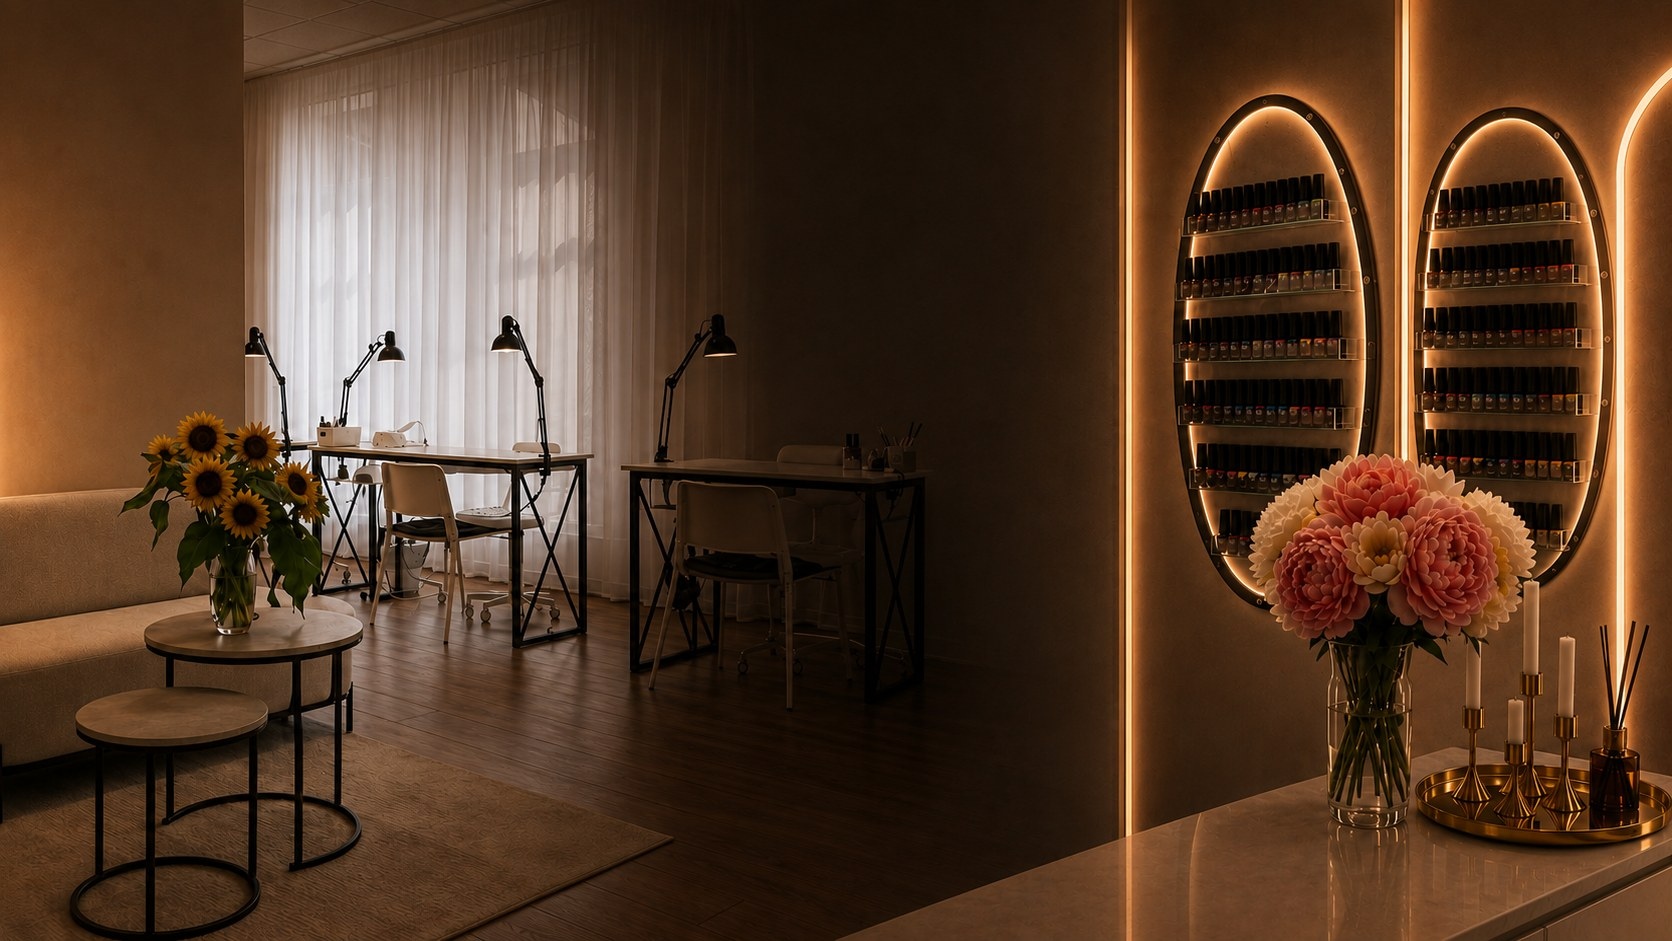
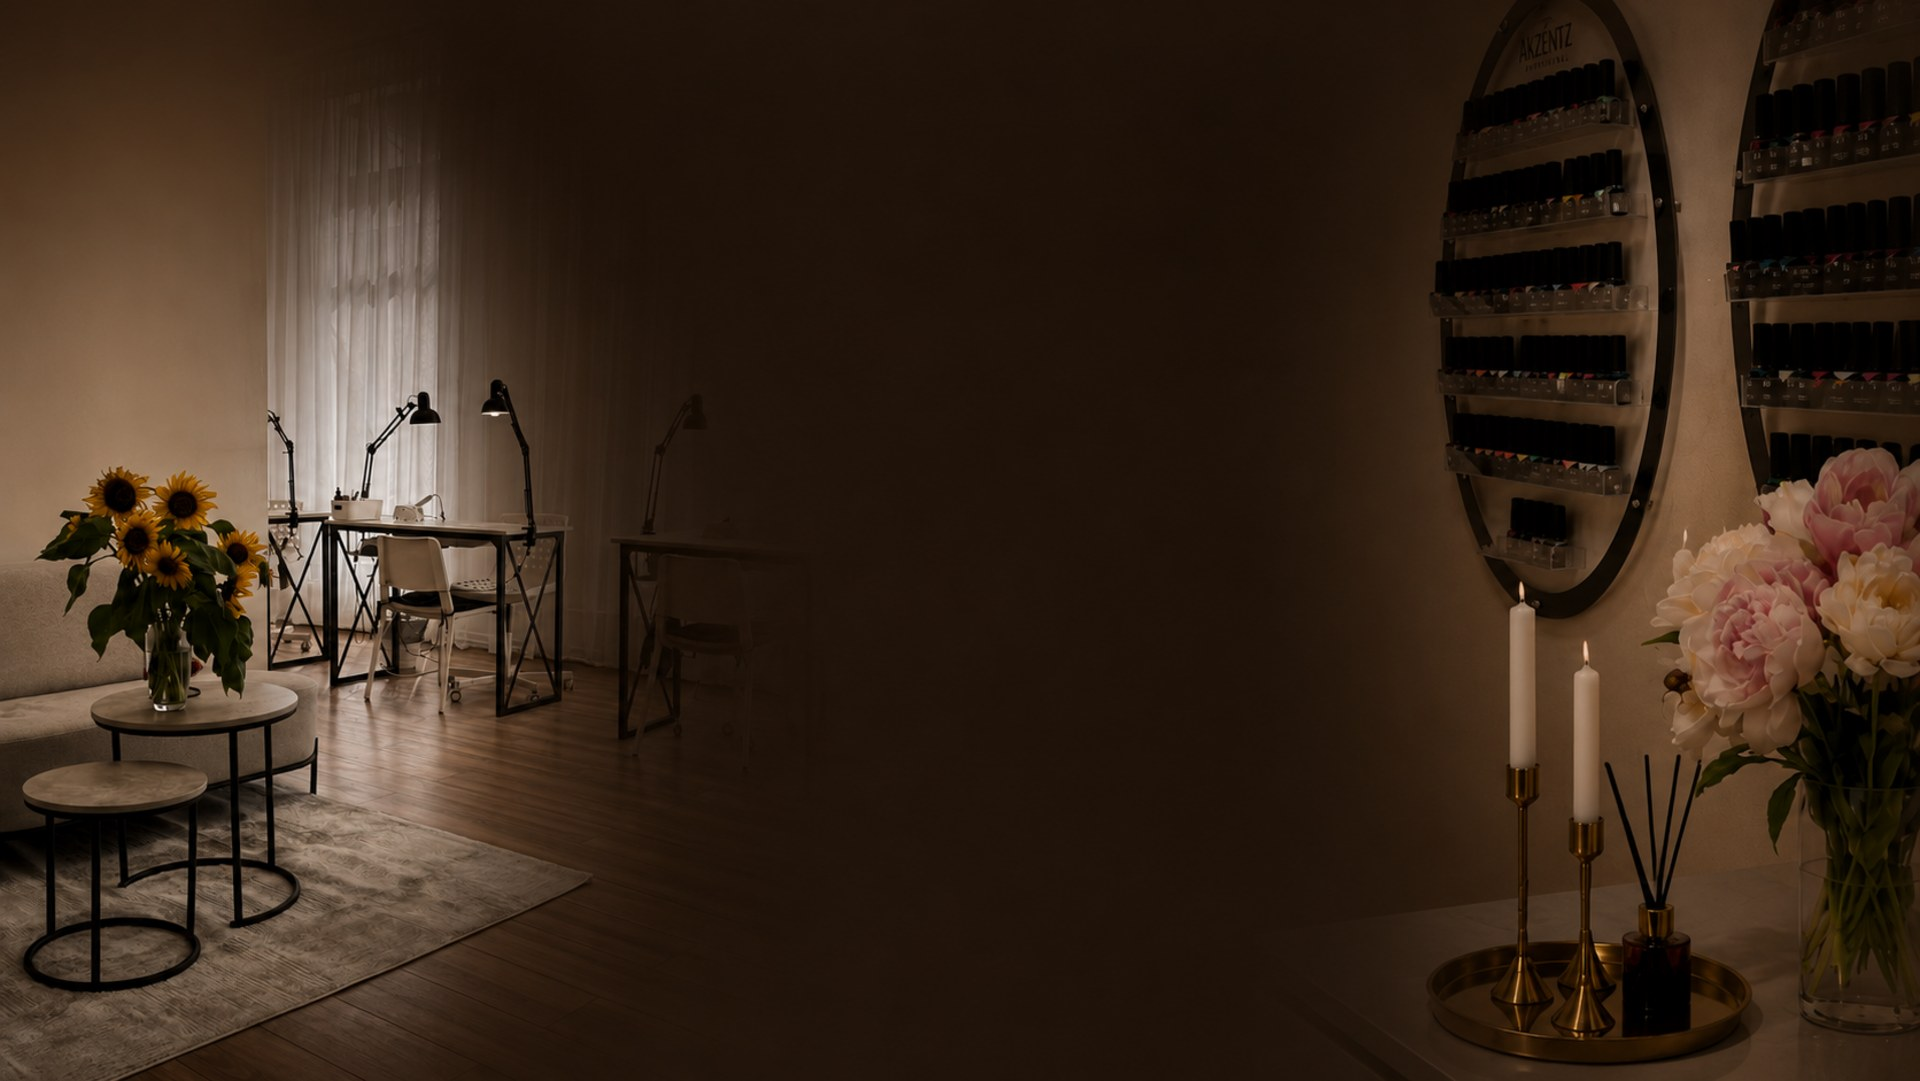
diana: новый фон главной, посадка «О салоне», правки галереи
Главная получила новый фон из макета (perfect-ton-brown-background-v3),
для телефона — вертикальный кадр с зеркалами и цветами и более плотная
подложка под текстом. На «О салоне» направляющие и текст сдвинуты
левее — блок не подходит вплотную к правой фотографии; на телефоне
верхний экран перестроен: фото стало фоном, заголовок помещается в
три строки. Подписи под фотографиями в просмотре убраны, «уголок
отдыха» заменён на новый кадр, блок «Готовы к преображению» со
страницы убран.

diff --git a/site/diana/diana.css b/site/diana/diana.css
@@ -135,7 +135,7 @@ p{margin:0 0 16px;color:rgba(255,255,255,.82);max-width:64ch}
 }
 .hero__bg{
   position:absolute;inset:0;z-index:-2;
-  background:url('assets/hero-bg.jpg') center/cover no-repeat;
+  background:url('assets/hero-bg.jpg?v=3') center/cover no-repeat;
 }
 .hero::before{
   content:'';position:absolute;inset:0;z-index:-1;pointer-events:none;
@@ -206,7 +206,7 @@ p{margin:0 0 16px;color:rgba(255,255,255,.82);max-width:64ch}
   .is-home .hdr--over{position:absolute;background:linear-gradient(180deg,rgba(20,12,10,.72),transparent)}
   .hdr--over .hdr__in{padding:16px var(--pad)}
   .hdr__cta{display:none}
-  .hero__bg{background-image:url('assets/hero-bg-mobile.jpg')}
+  .hero__bg{background-image:url('assets/hero-bg-mobile.jpg?v=3')}
   .hero{height:auto;min-height:92svh;padding:110px 0 230px}
   .usp{grid-template-columns:repeat(2,1fr);gap:22px 0}
   .usp li+li{border-left:0}
@@ -1609,3 +1609,69 @@ body.nav-open .hdr{backdrop-filter:none;-webkit-backdrop-filter:none;background:
 
 /* волна: чуть выше и с пологими краями — у самой кромки экрана нет уголков */
 .wave{height:clamp(52px,7vw,116px)}
+
+
+/* =================== «О САЛОНЕ»: ТОЧНАЯ ПОСАДКА =================== */
+/* направляющие ближе к фотополосе, текст левее — он больше не подходит
+   вплотную к правой фотографии */
+.ab-top__in::before{left:calc(clamp(150px,20vw,300px) + 10px)}
+.ab-top__in::after{left:calc(clamp(150px,20vw,300px) + 24px);opacity:.4}
+.ab-top__text{
+  margin-left:calc(clamp(150px,20vw,300px) + 58px - var(--pad));
+  max-width:min(430px,30vw);
+}
+@media(min-width:1500px){.ab-top__text{max-width:min(480px,28vw)}}
+
+/* подписи под фотографиями в просмотре не нужны */
+.lightbox__cap{display:none}
+
+/* интерьер: ровная сетка без пустых колонок */
+.ab-shots{grid-template-columns:repeat(3,1fr)}
+@media(max-width:900px){.ab-shots{grid-template-columns:repeat(3,1fr)}}
+@media(max-width:620px){.ab-shots{grid-template-columns:repeat(2,1fr)}}
+
+/* ---------- мобильный верх «О салоне» ---------- */
+@media(max-width:720px){
+  .ab-top{
+    position:relative;padding:clamp(96px,22vw,130px) 0 clamp(34px,8vw,54px);
+    background:#241a19;text-align:left;
+  }
+  .ab-top__left{display:none}          /* узкая полоса на телефоне бесполезна */
+  .ab-top__right{
+    position:absolute;inset:0;width:100%;height:100%;
+    clip-path:none;z-index:0;background:none;
+  }
+  .ab-top__right img{
+    width:100%;height:100%;object-fit:cover;object-position:62% center;
+    clip-path:none;transform:none;filter:brightness(.62);
+  }
+  .ab-top::after{
+    content:'';position:absolute;inset:0;z-index:1;pointer-events:none;
+    background:linear-gradient(180deg,rgba(24,16,13,.86),rgba(24,16,13,.55) 42%,rgba(36,26,25,.94));
+  }
+  .ab-top__in{position:relative;z-index:2}
+  .ab-top__text{margin-left:0;max-width:none;padding:0}
+  .ab-top__title{font-size:clamp(26px,7.6vw,34px);line-height:1.12}
+  .ab-top__text p{max-width:34ch}
+}
+
+
+/* окончательная посадка текста «О салоне»: он не заходит под фото справа */
+.ab-top__in::before{left:calc(clamp(150px,20vw,300px) + 2px)}
+.ab-top__in::after{left:calc(clamp(150px,20vw,300px) + 16px);opacity:.4}
+.ab-top__text{margin-left:calc(clamp(150px,20vw,300px) + 26px - var(--pad));max-width:min(360px,26vw)}
+@media(min-width:1600px){.ab-top__text{max-width:min(430px,25vw)}}
+@media(max-width:720px){.ab-top__text{margin-left:0;max-width:none}}
+
+.ab-top__text{margin-left:calc(clamp(150px,20vw,300px) + 10px - var(--pad));max-width:min(330px,24vw)}
+@media(min-width:1600px){.ab-top__text{max-width:min(420px,24vw)}}
+@media(max-width:720px){.ab-top__text{margin-left:0;max-width:none}}
+
+@media(max-width:720px){
+  /* на телефоне кадр светлее — добавляем плотности под текст */
+  .hero::before{
+    background:
+      radial-gradient(78% 48% at 50% 40%,rgba(24,15,12,.82),rgba(24,15,12,.4) 62%,rgba(24,15,12,0) 84%),
+      linear-gradient(180deg,rgba(20,13,10,.66),rgba(20,13,10,.12) 34%,rgba(20,13,10,.2) 62%,rgba(20,13,10,.72));
+  }
+}

diff --git a/site/diana/about.html b/site/diana/about.html
@@ -9,7 +9,7 @@
   <link rel="preconnect" href="https://fonts.gstatic.com" crossorigin />
   <link href="https://fonts.googleapis.com/css2?family=Cormorant+Garamond:wght@300;400;500&family=Jost:wght@200;300;400&display=swap" rel="stylesheet" />
   <link rel="icon" href="assets/favicon.svg" type="image/svg+xml" />
-  <link rel="stylesheet" href="diana.css?v=43" />
+  <link rel="stylesheet" href="diana.css?v=47" />
 </head>
 <body>
 
@@ -103,7 +103,7 @@
         <div class="ab-shots" data-zoom>
           <img src="assets/int-1.jpg" alt="Зона ожидания с подсолнухами" loading="lazy" />
           <img src="assets/int-4.jpg" alt="Диван и столики в зоне ожидания" loading="lazy" />
-          <img src="assets/int-2.jpg" alt="Уголок отдыха у окна" loading="lazy" />
+          <img src="assets/int-2.jpg?v=2" alt="Уголок отдыха у окна" loading="lazy" />
           <img src="assets/int-3.jpg" alt="Стена с лаками и зеркало" loading="lazy" />
           <img src="assets/int-6.jpg" alt="Рабочие места мастеров" loading="lazy" />
           <img src="assets/int-5.jpg" alt="Цветы на столике" loading="lazy" />
@@ -135,17 +135,6 @@
         </span>
         <span class="ab-map__label">Дергаевская, 36/6<small>открыть в Яндекс Картах</small></span>
       </a>
-    </div>
-  </section>
-
-  <!-- ================= ПРИЗЫВ ================= -->
-  <section class="sec sec--cta ab-cta">
-    <div class="wrap">
-      <div class="ab-call">
-        <h2 class="h-serif">Готовы к преображению?</h2>
-        <p>Запишитесь на процедуру прямо сейчас и почувствуйте идеальный результат.</p>
-        <a class="btn btn--ghost" href="https://n99533.yclients.com/company/112132/personal/select-master?o=" target="_blank" rel="noopener">Записаться</a>
-      </div>
     </div>
   </section>
 
@@ -210,6 +199,6 @@
     </div>
   </footer>
 
-  <script src="diana.js?v=42"></script>
+  <script src="diana.js?v=44"></script>
 </body>
 </html>

diff --git a/site/diana/index.html b/site/diana/index.html
@@ -8,9 +8,9 @@
   <link rel="preconnect" href="https://fonts.googleapis.com" />
   <link rel="preconnect" href="https://fonts.gstatic.com" crossorigin />
   <link href="https://fonts.googleapis.com/css2?family=Cormorant+Garamond:wght@300;400;500&family=Jost:wght@200;300;400&display=swap" rel="stylesheet" />
-  <link rel="preload" as="image" href="assets/hero-bg.jpg" />
+  <link rel="preload" as="image" href="assets/hero-bg.jpg?v=3" />
   <link rel="icon" href="assets/favicon.svg" type="image/svg+xml" />
-  <link rel="stylesheet" href="diana.css?v=43" />
+  <link rel="stylesheet" href="diana.css?v=47" />
 </head>
 <body class="is-home">
 
@@ -312,6 +312,6 @@
     </div>
   </footer>
 
-  <script src="diana.js?v=42"></script>
+  <script src="diana.js?v=44"></script>
 </body>
 </html>

diff --git a/site/diana/contacts.html b/site/diana/contacts.html
@@ -9,7 +9,7 @@
   <link rel="preconnect" href="https://fonts.gstatic.com" crossorigin />
   <link href="https://fonts.googleapis.com/css2?family=Cormorant+Garamond:wght@300;400;500&family=Jost:wght@200;300;400&display=swap" rel="stylesheet" />
   <link rel="icon" href="assets/favicon.svg" type="image/svg+xml" />
-  <link rel="stylesheet" href="diana.css?v=43" />
+  <link rel="stylesheet" href="diana.css?v=47" />
 </head>
 <body>
 
@@ -152,6 +152,6 @@
     </div>
   </footer>
 
-  <script src="diana.js?v=42"></script>
+  <script src="diana.js?v=44"></script>
 </body>
 </html>

diff --git a/site/diana/gallery.html b/site/diana/gallery.html
@@ -9,7 +9,7 @@
   <link rel="preconnect" href="https://fonts.gstatic.com" crossorigin />
   <link href="https://fonts.googleapis.com/css2?family=Cormorant+Garamond:wght@300;400;500&family=Jost:wght@200;300;400&display=swap" rel="stylesheet" />
   <link rel="icon" href="assets/favicon.svg" type="image/svg+xml" />
-  <link rel="stylesheet" href="diana.css?v=43" />
+  <link rel="stylesheet" href="diana.css?v=47" />
 </head>
 <body>
 
@@ -130,6 +130,6 @@
     </div>
   </footer>
 
-  <script src="diana.js?v=42"></script>
+  <script src="diana.js?v=44"></script>
 </body>
 </html>

diff --git a/site/diana/masters.html b/site/diana/masters.html
@@ -9,7 +9,7 @@
   <link rel="preconnect" href="https://fonts.gstatic.com" crossorigin />
   <link href="https://fonts.googleapis.com/css2?family=Cormorant+Garamond:wght@300;400;500&family=Jost:wght@200;300;400&display=swap" rel="stylesheet" />
   <link rel="icon" href="assets/favicon.svg" type="image/svg+xml" />
-  <link rel="stylesheet" href="diana.css?v=43" />
+  <link rel="stylesheet" href="diana.css?v=47" />
 </head>
 <body>
 
@@ -115,6 +115,6 @@
     </div>
   </footer>
 
-  <script src="diana.js?v=42"></script>
+  <script src="diana.js?v=44"></script>
 </body>
 </html>

diff --git a/site/diana/materials.html b/site/diana/materials.html
@@ -9,7 +9,7 @@
   <link rel="preconnect" href="https://fonts.gstatic.com" crossorigin />
   <link href="https://fonts.googleapis.com/css2?family=Cormorant+Garamond:wght@300;400;500&family=Jost:wght@200;300;400&display=swap" rel="stylesheet" />
   <link rel="icon" href="assets/favicon.svg" type="image/svg+xml" />
-  <link rel="stylesheet" href="diana.css?v=43" />
+  <link rel="stylesheet" href="diana.css?v=47" />
 </head>
 <body>
 
@@ -247,6 +247,6 @@
     </div>
   </footer>
 
-  <script src="diana.js?v=42"></script>
+  <script src="diana.js?v=44"></script>
 </body>
 </html>

diff --git a/site/diana/promo.html b/site/diana/promo.html
@@ -9,7 +9,7 @@
   <link rel="preconnect" href="https://fonts.gstatic.com" crossorigin />
   <link href="https://fonts.googleapis.com/css2?family=Cormorant+Garamond:wght@300;400;500&family=Jost:wght@200;300;400&display=swap" rel="stylesheet" />
   <link rel="icon" href="assets/favicon.svg" type="image/svg+xml" />
-  <link rel="stylesheet" href="diana.css?v=43" />
+  <link rel="stylesheet" href="diana.css?v=47" />
 </head>
 <body>
 
@@ -117,6 +117,6 @@
     </div>
   </footer>
 
-  <script src="diana.js?v=42"></script>
+  <script src="diana.js?v=44"></script>
 </body>
 </html>

diff --git a/site/diana/reviews.html b/site/diana/reviews.html
@@ -9,7 +9,7 @@
   <link rel="preconnect" href="https://fonts.gstatic.com" crossorigin />
   <link href="https://fonts.googleapis.com/css2?family=Cormorant+Garamond:wght@300;400;500&family=Jost:wght@200;300;400&display=swap" rel="stylesheet" />
   <link rel="icon" href="assets/favicon.svg" type="image/svg+xml" />
-  <link rel="stylesheet" href="diana.css?v=43" />
+  <link rel="stylesheet" href="diana.css?v=47" />
 </head>
 <body>
 
@@ -118,6 +118,6 @@
     </div>
   </footer>
 
-  <script src="diana.js?v=42"></script>
+  <script src="diana.js?v=44"></script>
 </body>
 </html>

diff --git a/site/diana/services.html b/site/diana/services.html
@@ -9,7 +9,7 @@
   <link rel="preconnect" href="https://fonts.gstatic.com" crossorigin />
   <link href="https://fonts.googleapis.com/css2?family=Cormorant+Garamond:wght@300;400;500&family=Jost:wght@200;300;400&display=swap" rel="stylesheet" />
   <link rel="icon" href="assets/favicon.svg" type="image/svg+xml" />
-  <link rel="stylesheet" href="diana.css?v=43" />
+  <link rel="stylesheet" href="diana.css?v=47" />
 </head>
 <body>
 
@@ -152,6 +152,6 @@
     </div>
   </footer>
 
-  <script src="diana.js?v=42"></script>
+  <script src="diana.js?v=44"></script>
 </body>
 </html>
